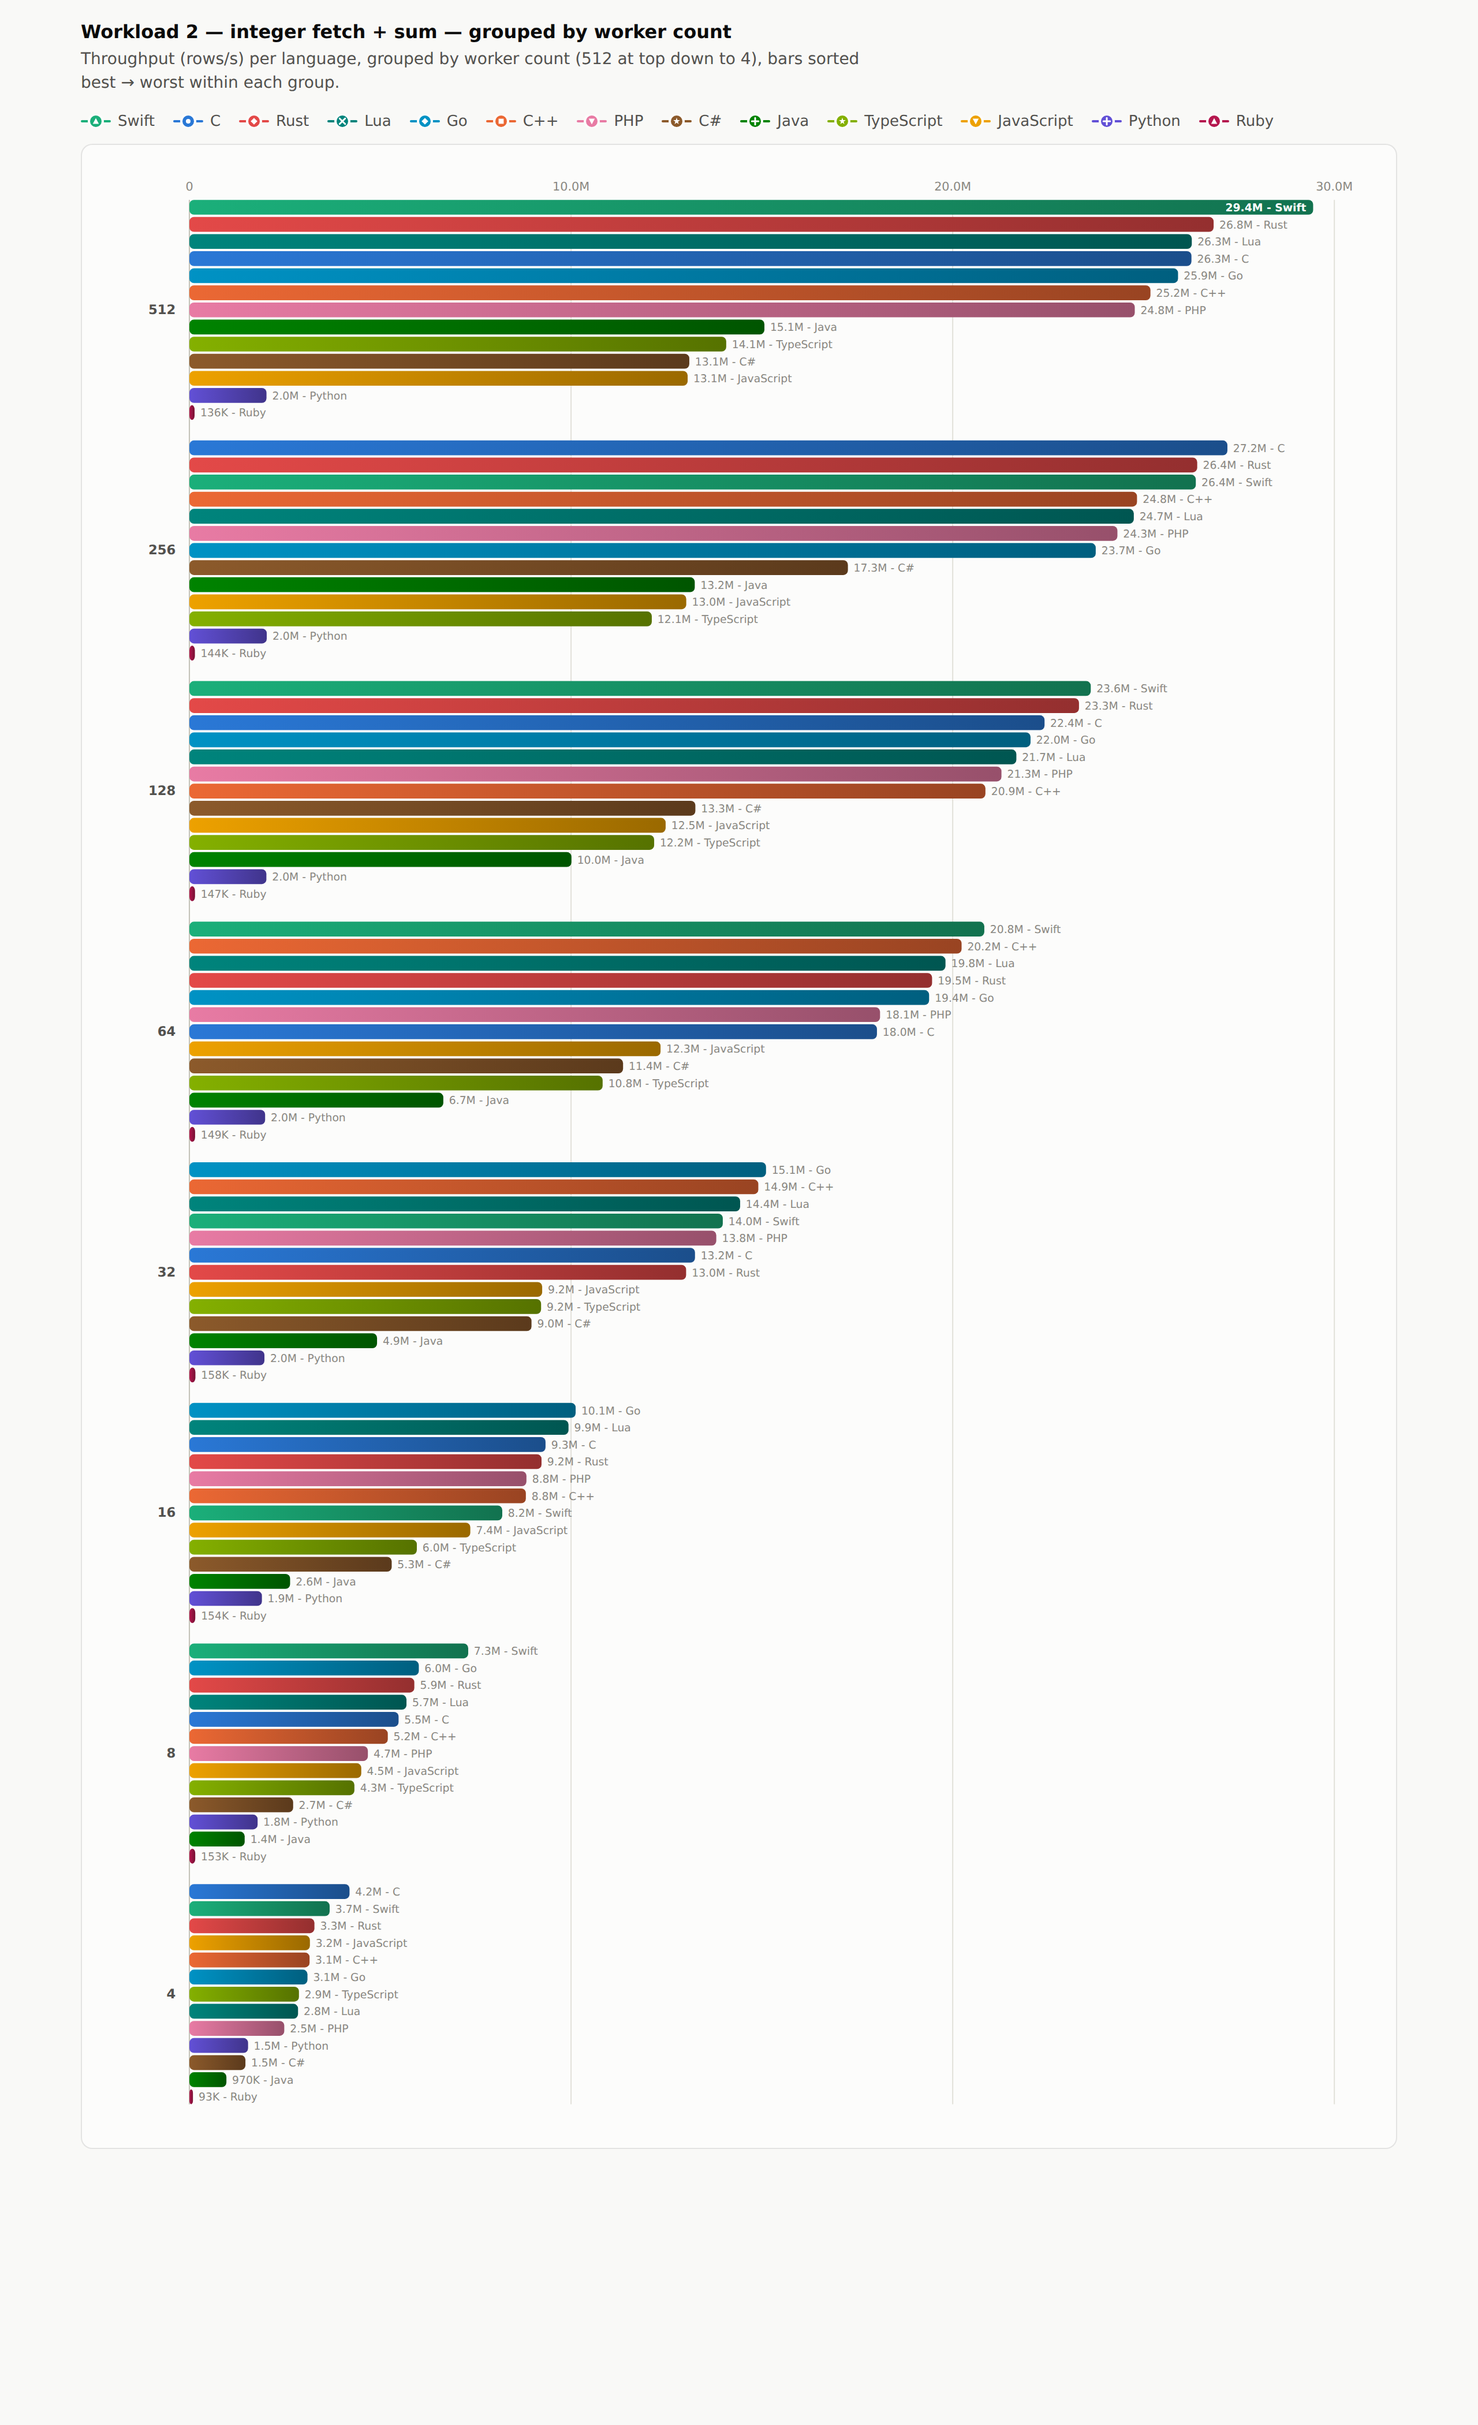
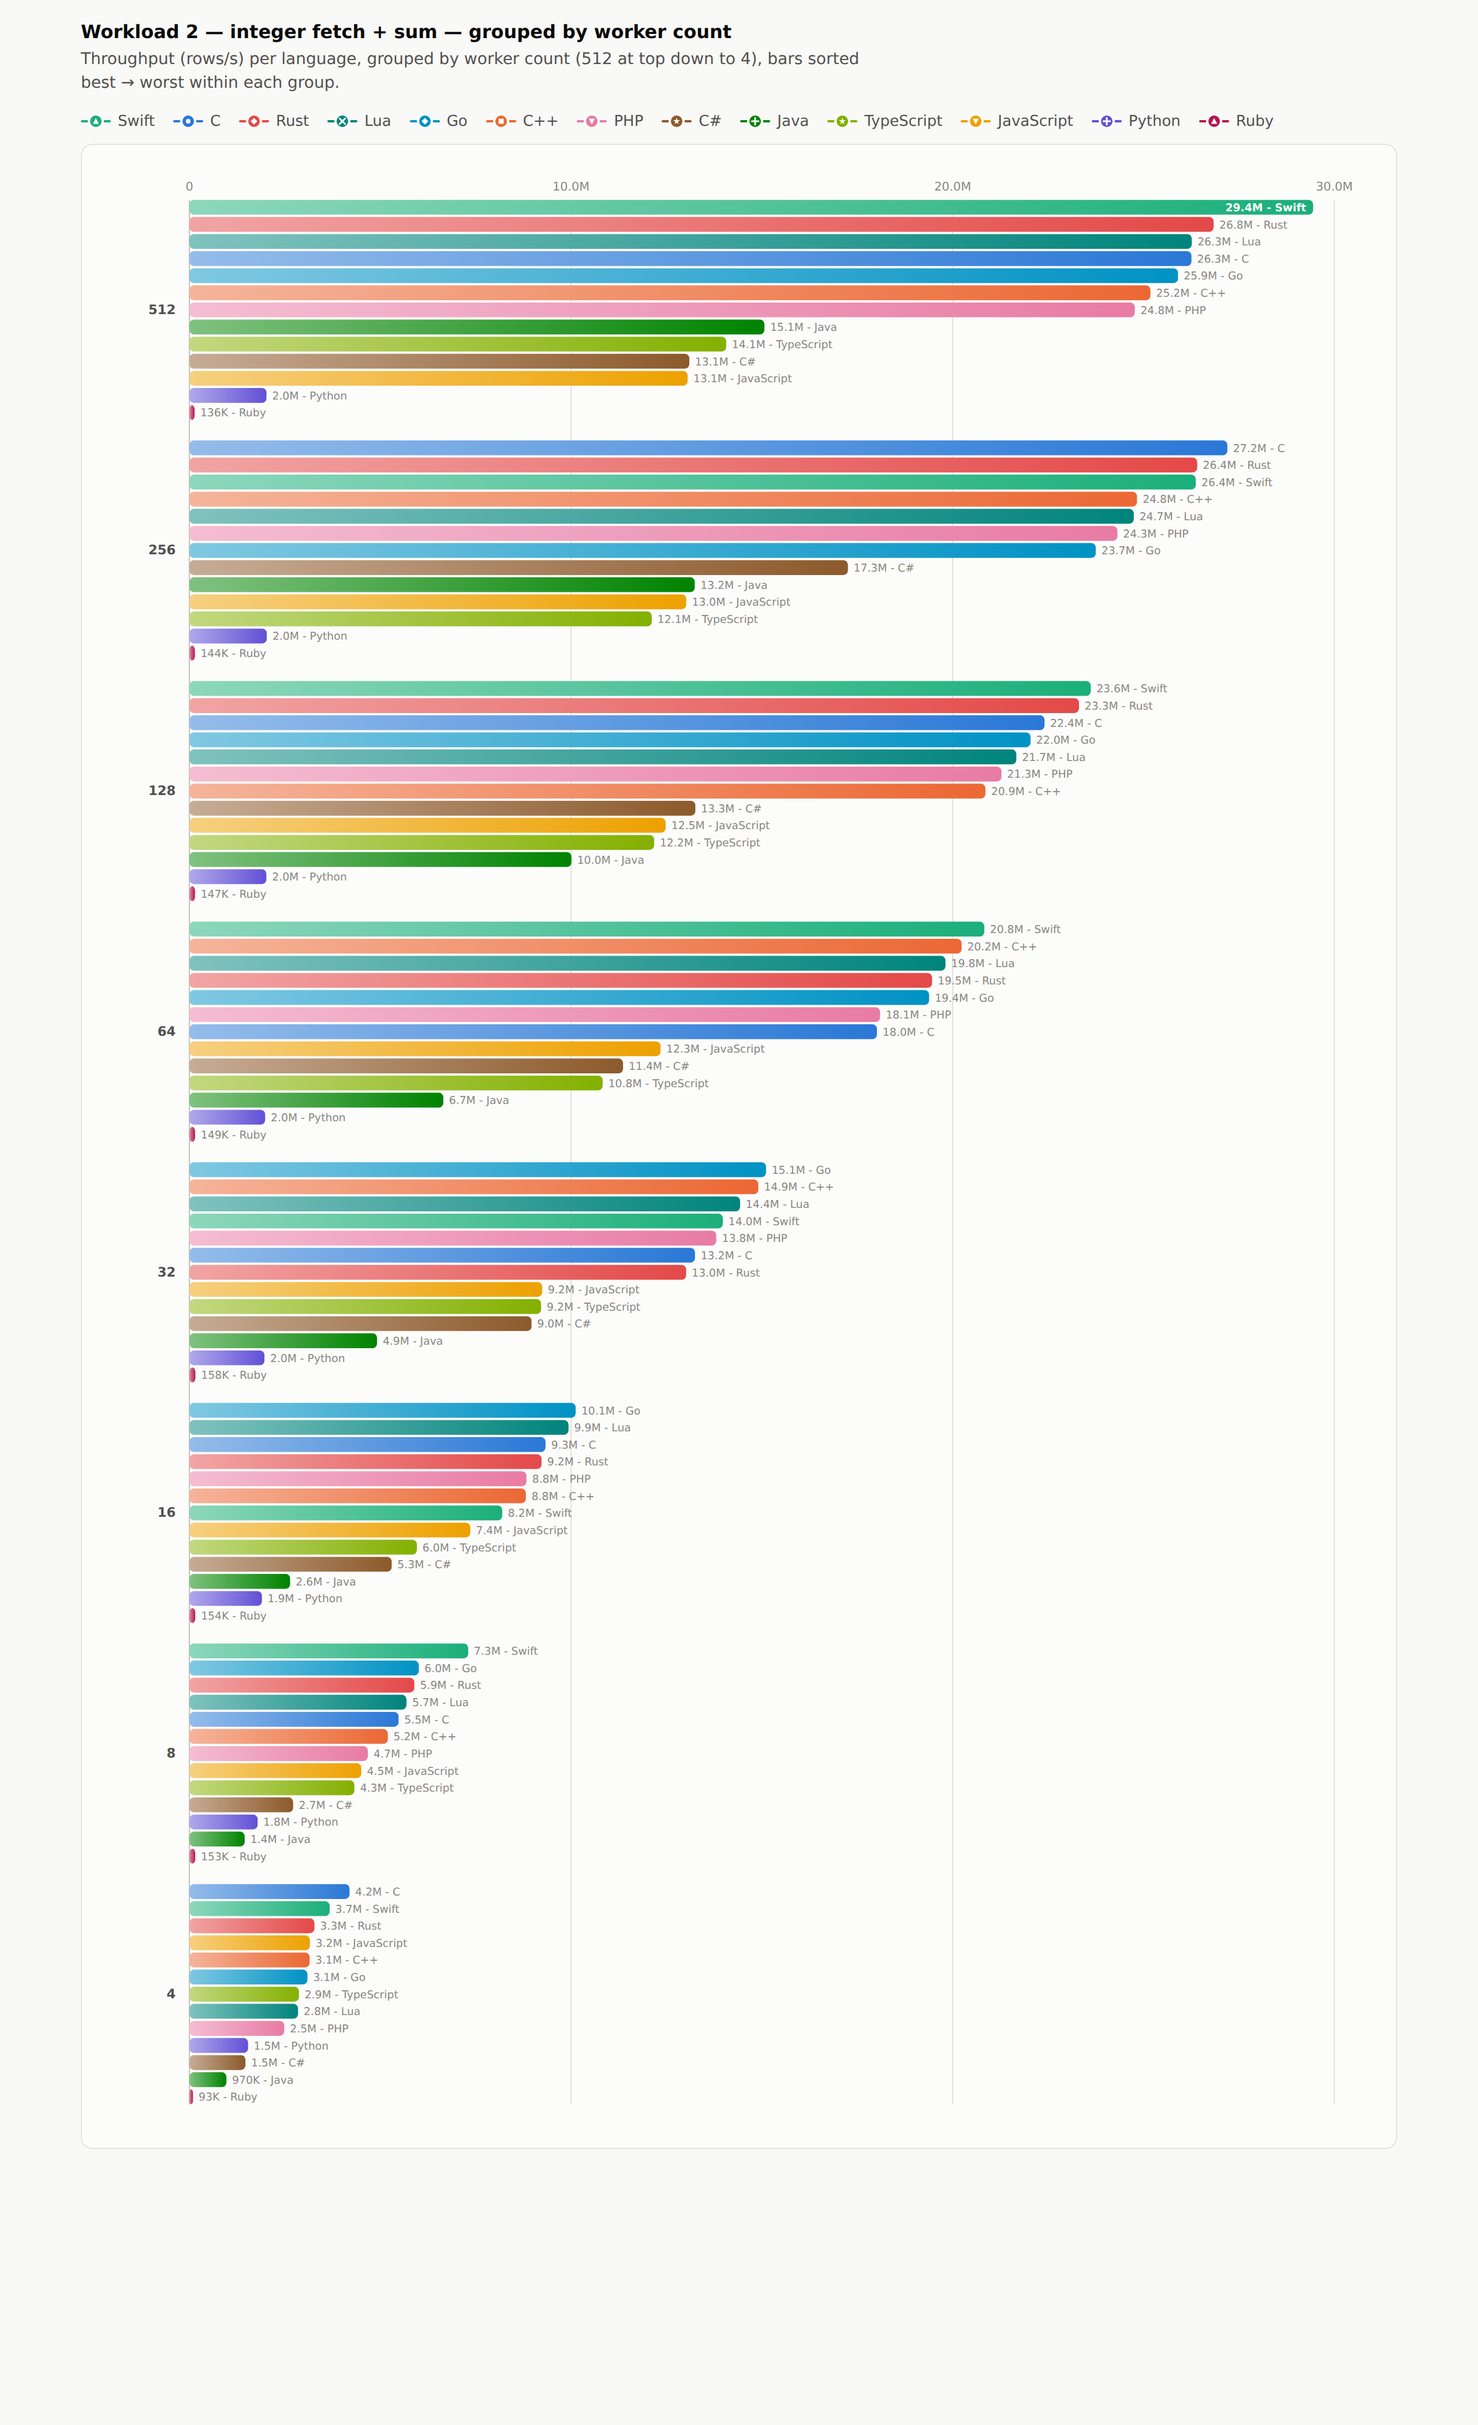
report: flip bar gradient to lighter-left, base-color-right
The bar gradient now runs from a 50%-lighter tint of the series color at the
bar start up to the full base color at the tip, replacing the previous
color-to-35%-darker direction. Emit a --cat-N-l (50% lighter) companion per
hue instead of --cat-N-d and swap the gradient stops accordingly.

Changed region(s): [[0.125, 0.0624, 0.875, 0.8733]]

diff --git a/report/report.html b/report/report.html
@@ -12,7 +12,7 @@
     --grid: #e1e0d9; --baseline: #c3c2b7; --band: #898781;
     --border: rgba(11,11,11,0.10);
     --cat-1: #2a78d6; --cat-2: #eb6834; --cat-3: #1baf7a; --cat-4: #eda100; --cat-5: #e87ba4; --cat-6: #008300; --cat-7: #6250d6; --cat-8: #e34948; --cat-9: #84b000; --cat-10: #0092c4; --cat-11: #8c5a2b; --cat-12: #b5174e; --cat-13: #00847c;
-      --cat-1-d: #1b4e8b; --cat-2-d: #994422; --cat-3-d: #12724f; --cat-4-d: #9a6900; --cat-5-d: #97506b; --cat-6-d: #005500; --cat-7-d: #40348b; --cat-8-d: #942f2f; --cat-9-d: #567200; --cat-10-d: #005f7f; --cat-11-d: #5b3a1c; --cat-12-d: #760f33; --cat-13-d: #005651;
+      --cat-1-l: #94bcea; --cat-2-l: #f5b49a; --cat-3-l: #8dd7bc; --cat-4-l: #f6d080; --cat-5-l: #f4bdd2; --cat-6-l: #80c180; --cat-7-l: #b0a8ea; --cat-8-l: #f1a4a4; --cat-9-l: #c2d880; --cat-10-l: #80c8e2; --cat-11-l: #c6ac95; --cat-12-l: #da8ba6; --cat-13-l: #80c2be;
   }
   @media (prefers-color-scheme: dark) {
     :root:where(:not([data-theme="light"])) .viz-root {
@@ -22,7 +22,7 @@
       --grid: #2c2c2a; --baseline: #383835; --band: #898781;
       --border: rgba(255,255,255,0.10);
       --cat-1: #3987e5; --cat-2: #d95926; --cat-3: #199e70; --cat-4: #c98500; --cat-5: #d55181; --cat-6: #008300; --cat-7: #9085e9; --cat-8: #e66767; --cat-9: #a3c636; --cat-10: #35b5e0; --cat-11: #b07845; --cat-12: #d6447c; --cat-13: #2aaea5;
-      --cat-1-d: #255895; --cat-2-d: #8d3a19; --cat-3-d: #106749; --cat-4-d: #835600; --cat-5-d: #8a3554; --cat-6-d: #005500; --cat-7-d: #5e5697; --cat-8-d: #964343; --cat-9-d: #6a8123; --cat-10-d: #227692; --cat-11-d: #724e2d; --cat-12-d: #8b2c51; --cat-13-d: #1b716b;
+      --cat-1-l: #9cc3f2; --cat-2-l: #ecac92; --cat-3-l: #8cceb8; --cat-4-l: #e4c280; --cat-5-l: #eaa8c0; --cat-6-l: #80c180; --cat-7-l: #c8c2f4; --cat-8-l: #f2b3b3; --cat-9-l: #d1e29a; --cat-10-l: #9adaf0; --cat-11-l: #d8bca2; --cat-12-l: #eaa2be; --cat-13-l: #94d6d2;
     }
   }
   :root[data-theme="dark"] .viz-root {
@@ -32,7 +32,7 @@
     --grid: #2c2c2a; --baseline: #383835; --band: #898781;
     --border: rgba(255,255,255,0.10);
     --cat-1: #3987e5; --cat-2: #d95926; --cat-3: #199e70; --cat-4: #c98500; --cat-5: #d55181; --cat-6: #008300; --cat-7: #9085e9; --cat-8: #e66767; --cat-9: #a3c636; --cat-10: #35b5e0; --cat-11: #b07845; --cat-12: #d6447c; --cat-13: #2aaea5;
-      --cat-1-d: #255895; --cat-2-d: #8d3a19; --cat-3-d: #106749; --cat-4-d: #835600; --cat-5-d: #8a3554; --cat-6-d: #005500; --cat-7-d: #5e5697; --cat-8-d: #964343; --cat-9-d: #6a8123; --cat-10-d: #227692; --cat-11-d: #724e2d; --cat-12-d: #8b2c51; --cat-13-d: #1b716b;
+      --cat-1-l: #9cc3f2; --cat-2-l: #ecac92; --cat-3-l: #8cceb8; --cat-4-l: #e4c280; --cat-5-l: #eaa8c0; --cat-6-l: #80c180; --cat-7-l: #c8c2f4; --cat-8-l: #f2b3b3; --cat-9-l: #d1e29a; --cat-10-l: #9adaf0; --cat-11-l: #d8bca2; --cat-12-l: #eaa2be; --cat-13-l: #94d6d2;
   }
   * { box-sizing: border-box; }
   body.viz-root { margin: 0; background: var(--page); color: var(--text-primary);
@@ -428,16 +428,16 @@ const PAGE_BARS = false;
     const step = niceStep(yMax, 5);
     const X = v => BM.l + (v/yMax)*BIW;
     const svg = el("svg", { viewBox: `0 0 ${BW} ${BH}`, role: "img", "aria-label": cfg.ariaLabel });
-    // One left->right gradient per palette slot used: the series color at the
-    // bar start (x=0) fading to its 35%-darker companion at the bar tip (x=1).
-    // objectBoundingBox units make each bar span its own full gradient. Stops
-    // use CSS vars via inline style so they stay theme-reactive.
+    // One left->right gradient per palette slot used: the 50%-lighter companion
+    // at the bar start (x=0) deepening to the base series color at the bar tip
+    // (x=1). objectBoundingBox units make each bar span its own full gradient.
+    // Stops use CSS vars via inline style so they stay theme-reactive.
     const slotOf = d => (d.st.color.match(/--cat-(\d+)/) || [])[1];
     const gdefs = el("defs", {});
     for (const sl of [...new Set(cfg.seriesDefs.map(slotOf).filter(Boolean))]) {
       const g = el("linearGradient", { id: `g-${cfg.hostId}-${sl}`, x1: "0", y1: "0", x2: "1", y2: "0" });
-      const s0 = el("stop", { offset: "0" }); s0.style.stopColor = `var(--cat-${sl})`;
-      const s1 = el("stop", { offset: "1" }); s1.style.stopColor = `var(--cat-${sl}-d)`;
+      const s0 = el("stop", { offset: "0" }); s0.style.stopColor = `var(--cat-${sl}-l)`;
+      const s1 = el("stop", { offset: "1" }); s1.style.stopColor = `var(--cat-${sl})`;
       g.append(s0, s1); gdefs.appendChild(g);
     }
     svg.appendChild(gdefs);

diff --git a/report/bars.html b/report/bars.html
@@ -12,7 +12,7 @@
     --grid: #e1e0d9; --baseline: #c3c2b7; --band: #898781;
     --border: rgba(11,11,11,0.10);
     --cat-1: #2a78d6; --cat-2: #eb6834; --cat-3: #1baf7a; --cat-4: #eda100; --cat-5: #e87ba4; --cat-6: #008300; --cat-7: #6250d6; --cat-8: #e34948; --cat-9: #84b000; --cat-10: #0092c4; --cat-11: #8c5a2b; --cat-12: #b5174e; --cat-13: #00847c;
-      --cat-1-d: #1b4e8b; --cat-2-d: #994422; --cat-3-d: #12724f; --cat-4-d: #9a6900; --cat-5-d: #97506b; --cat-6-d: #005500; --cat-7-d: #40348b; --cat-8-d: #942f2f; --cat-9-d: #567200; --cat-10-d: #005f7f; --cat-11-d: #5b3a1c; --cat-12-d: #760f33; --cat-13-d: #005651;
+      --cat-1-l: #94bcea; --cat-2-l: #f5b49a; --cat-3-l: #8dd7bc; --cat-4-l: #f6d080; --cat-5-l: #f4bdd2; --cat-6-l: #80c180; --cat-7-l: #b0a8ea; --cat-8-l: #f1a4a4; --cat-9-l: #c2d880; --cat-10-l: #80c8e2; --cat-11-l: #c6ac95; --cat-12-l: #da8ba6; --cat-13-l: #80c2be;
   }
   @media (prefers-color-scheme: dark) {
     :root:where(:not([data-theme="light"])) .viz-root {
@@ -22,7 +22,7 @@
       --grid: #2c2c2a; --baseline: #383835; --band: #898781;
       --border: rgba(255,255,255,0.10);
       --cat-1: #3987e5; --cat-2: #d95926; --cat-3: #199e70; --cat-4: #c98500; --cat-5: #d55181; --cat-6: #008300; --cat-7: #9085e9; --cat-8: #e66767; --cat-9: #a3c636; --cat-10: #35b5e0; --cat-11: #b07845; --cat-12: #d6447c; --cat-13: #2aaea5;
-      --cat-1-d: #255895; --cat-2-d: #8d3a19; --cat-3-d: #106749; --cat-4-d: #835600; --cat-5-d: #8a3554; --cat-6-d: #005500; --cat-7-d: #5e5697; --cat-8-d: #964343; --cat-9-d: #6a8123; --cat-10-d: #227692; --cat-11-d: #724e2d; --cat-12-d: #8b2c51; --cat-13-d: #1b716b;
+      --cat-1-l: #9cc3f2; --cat-2-l: #ecac92; --cat-3-l: #8cceb8; --cat-4-l: #e4c280; --cat-5-l: #eaa8c0; --cat-6-l: #80c180; --cat-7-l: #c8c2f4; --cat-8-l: #f2b3b3; --cat-9-l: #d1e29a; --cat-10-l: #9adaf0; --cat-11-l: #d8bca2; --cat-12-l: #eaa2be; --cat-13-l: #94d6d2;
     }
   }
   :root[data-theme="dark"] .viz-root {
@@ -32,7 +32,7 @@
     --grid: #2c2c2a; --baseline: #383835; --band: #898781;
     --border: rgba(255,255,255,0.10);
     --cat-1: #3987e5; --cat-2: #d95926; --cat-3: #199e70; --cat-4: #c98500; --cat-5: #d55181; --cat-6: #008300; --cat-7: #9085e9; --cat-8: #e66767; --cat-9: #a3c636; --cat-10: #35b5e0; --cat-11: #b07845; --cat-12: #d6447c; --cat-13: #2aaea5;
-      --cat-1-d: #255895; --cat-2-d: #8d3a19; --cat-3-d: #106749; --cat-4-d: #835600; --cat-5-d: #8a3554; --cat-6-d: #005500; --cat-7-d: #5e5697; --cat-8-d: #964343; --cat-9-d: #6a8123; --cat-10-d: #227692; --cat-11-d: #724e2d; --cat-12-d: #8b2c51; --cat-13-d: #1b716b;
+      --cat-1-l: #9cc3f2; --cat-2-l: #ecac92; --cat-3-l: #8cceb8; --cat-4-l: #e4c280; --cat-5-l: #eaa8c0; --cat-6-l: #80c180; --cat-7-l: #c8c2f4; --cat-8-l: #f2b3b3; --cat-9-l: #d1e29a; --cat-10-l: #9adaf0; --cat-11-l: #d8bca2; --cat-12-l: #eaa2be; --cat-13-l: #94d6d2;
   }
   * { box-sizing: border-box; }
   body.viz-root { margin: 0; background: var(--page); color: var(--text-primary);
@@ -364,16 +364,16 @@ const PAGE_BARS = true;
     const step = niceStep(yMax, 5);
     const X = v => BM.l + (v/yMax)*BIW;
     const svg = el("svg", { viewBox: `0 0 ${BW} ${BH}`, role: "img", "aria-label": cfg.ariaLabel });
-    // One left->right gradient per palette slot used: the series color at the
-    // bar start (x=0) fading to its 35%-darker companion at the bar tip (x=1).
-    // objectBoundingBox units make each bar span its own full gradient. Stops
-    // use CSS vars via inline style so they stay theme-reactive.
+    // One left->right gradient per palette slot used: the 50%-lighter companion
+    // at the bar start (x=0) deepening to the base series color at the bar tip
+    // (x=1). objectBoundingBox units make each bar span its own full gradient.
+    // Stops use CSS vars via inline style so they stay theme-reactive.
     const slotOf = d => (d.st.color.match(/--cat-(\d+)/) || [])[1];
     const gdefs = el("defs", {});
     for (const sl of [...new Set(cfg.seriesDefs.map(slotOf).filter(Boolean))]) {
       const g = el("linearGradient", { id: `g-${cfg.hostId}-${sl}`, x1: "0", y1: "0", x2: "1", y2: "0" });
-      const s0 = el("stop", { offset: "0" }); s0.style.stopColor = `var(--cat-${sl})`;
-      const s1 = el("stop", { offset: "1" }); s1.style.stopColor = `var(--cat-${sl}-d)`;
+      const s0 = el("stop", { offset: "0" }); s0.style.stopColor = `var(--cat-${sl}-l)`;
+      const s1 = el("stop", { offset: "1" }); s1.style.stopColor = `var(--cat-${sl})`;
       g.append(s0, s1); gdefs.appendChild(g);
     }
     svg.appendChild(gdefs);

diff --git a/report/generate_html_report.py b/report/generate_html_report.py
@@ -26,8 +26,9 @@ BARS_OUT = ROOT / "report" / "bars.html"
 PNG_DIR = ROOT / "report" / "png"
 
 # Categorical palette (dataviz slots 1..13), light and dark surfaces. Kept here
-# as the single source of truth so we can also emit a 35%-darker companion of
-# each hue (--cat-N-d), used as the right-hand stop of the bar gradients.
+# as the single source of truth so we can also emit a 50%-lighter companion of
+# each hue (--cat-N-l), used as the left-hand stop of the bar gradients (which
+# fade from that lighter tint up to the base color at the bar tip).
 PAL_LIGHT = {
     1: "#2a78d6", 2: "#eb6834", 3: "#1baf7a", 4: "#eda100", 5: "#e87ba4",
     6: "#008300", 7: "#6250d6", 8: "#e34948", 9: "#84b000", 10: "#0092c4",
@@ -40,19 +41,19 @@ PAL_DARK = {
 }
 
 
-def darken(hex_color, frac=0.35):
-    """Return hex_color with each RGB channel reduced by `frac` (toward black)."""
+def lighten(hex_color, frac=0.5):
+    """Return hex_color with each RGB channel moved `frac` of the way to white."""
     h = hex_color.lstrip("#")
     r, g, b = (int(h[i:i+2], 16) for i in (0, 2, 4))
-    k = 1.0 - frac
-    return "#%02x%02x%02x" % (round(r*k), round(g*k), round(b*k))
+    mix = lambda c: round(c + (255 - c) * frac)
+    return "#%02x%02x%02x" % (mix(r), mix(g), mix(b))
 
 
 def cat_css(pal):
-    """CSS declarations for the base hues plus their 35%-darker companions."""
+    """CSS declarations for the base hues plus their 50%-lighter companions."""
     base = " ".join(f"--cat-{n}: {pal[n]};" for n in sorted(pal))
-    dark = " ".join(f"--cat-{n}-d: {darken(pal[n])};" for n in sorted(pal))
-    return base + "\n      " + dark
+    light = " ".join(f"--cat-{n}-l: {lighten(pal[n])};" for n in sorted(pal))
+    return base + "\n      " + light
 
 DISPLAY = {
     "c": "C", "cpp": "C++", "swift": "Swift", "rust": "Rust", "php": "PHP",
@@ -599,16 +600,16 @@ const PAGE_BARS = __PAGE_BARS__;
     const step = niceStep(yMax, 5);
     const X = v => BM.l + (v/yMax)*BIW;
     const svg = el("svg", { viewBox: `0 0 ${BW} ${BH}`, role: "img", "aria-label": cfg.ariaLabel });
-    // One left->right gradient per palette slot used: the series color at the
-    // bar start (x=0) fading to its 35%-darker companion at the bar tip (x=1).
-    // objectBoundingBox units make each bar span its own full gradient. Stops
-    // use CSS vars via inline style so they stay theme-reactive.
+    // One left->right gradient per palette slot used: the 50%-lighter companion
+    // at the bar start (x=0) deepening to the base series color at the bar tip
+    // (x=1). objectBoundingBox units make each bar span its own full gradient.
+    // Stops use CSS vars via inline style so they stay theme-reactive.
     const slotOf = d => (d.st.color.match(/--cat-(\d+)/) || [])[1];
     const gdefs = el("defs", {});
     for (const sl of [...new Set(cfg.seriesDefs.map(slotOf).filter(Boolean))]) {
       const g = el("linearGradient", { id: `g-${cfg.hostId}-${sl}`, x1: "0", y1: "0", x2: "1", y2: "0" });
-      const s0 = el("stop", { offset: "0" }); s0.style.stopColor = `var(--cat-${sl})`;
-      const s1 = el("stop", { offset: "1" }); s1.style.stopColor = `var(--cat-${sl}-d)`;
+      const s0 = el("stop", { offset: "0" }); s0.style.stopColor = `var(--cat-${sl}-l)`;
+      const s1 = el("stop", { offset: "1" }); s1.style.stopColor = `var(--cat-${sl})`;
       g.append(s0, s1); gdefs.appendChild(g);
     }
     svg.appendChild(gdefs);
